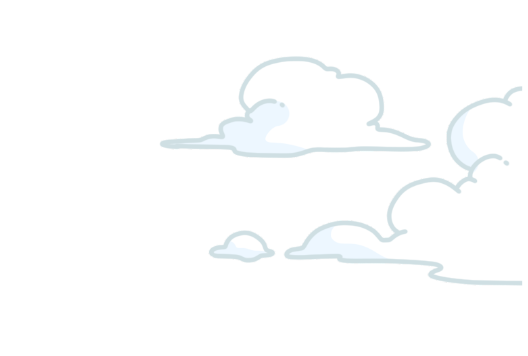
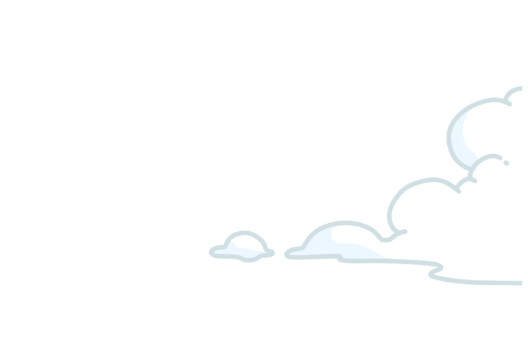
fix: clouds group one

Changed region(s): [[0.303, 0.1545, 0.8182, 0.4635]]

diff --git a/libs/fe-libs/src/lib/home/components/home-page/home-page.tsx b/libs/fe-libs/src/lib/home/components/home-page/home-page.tsx
@@ -1,4 +1,7 @@
 import styles from './home-page.module.scss';
+import { ParallaxProvider } from 'react-scroll-parallax';
+import { useHeroVideo } from '../../hooks/use-hero-video';
+import { useDeviceType } from '../../../shared/hooks/use-device-type';
 import { Landing } from '../landing/landing';
 import { IntroCard } from '../../../cards/components/intro-card/intro-card';
 import { PhaseOne } from '../../../cards/components/phase-one/phase-one';
@@ -6,12 +9,9 @@ import { GrowCard } from '../../../cards/components/grow-card/grow-card';
 import { PhaseTwo } from '../../../cards/components/phase-two/phase-two';
 import { PhaseThree } from '../../../cards/components/phase-three/phase-three';
 import { Roadmap } from '../roadmap/roadmap';
-import { useDeviceType } from '../../../shared/hooks/use-device-type';
 import { Footer } from '../../../core/components/footer/footer';
 import { Cloud } from '../cloud/cloud';
 import { CLOUD_IMAGE_MAPPER } from '../../helpers/cloud-image-mapper';
-import { ParallaxProvider } from 'react-scroll-parallax';
-import { useHeroVideo } from '../../hooks/use-hero-video';
 import classNames from 'classnames';
 
 export function HomePage() {
@@ -21,6 +21,14 @@ export function HomePage() {
     <div className={styles['container']}>
       <div className={styles['app-linear-bg']} />
       <ParallaxProvider>
+        <Cloud
+          imgSrc={CLOUD_IMAGE_MAPPER[0]}
+          topPercentage={isMaxTablet ? 7 : 10}
+          leftPercentage={75}
+          heightPercentage={3.5}
+          widthPercentage={27.5}
+          traslateX={true}
+        />
         <Cloud
           imgSrc={CLOUD_IMAGE_MAPPER[1]}
           topPercentage={isMaxTablet ? 7 : 10}
@@ -42,10 +50,19 @@ export function HomePage() {
           leftPercentage={isMaxTablet ? 80 : 81}
           heightPercentage={3.1}
           widthPercentage={isMaxTablet ? 25 : 22}
+          traslateX={true}
           zIndex={3}
         />
         <Cloud
           imgSrc={CLOUD_IMAGE_MAPPER[4]}
+          topPercentage={isMaxTablet ? 17 : 23}
+          leftPercentage={isMaxTablet ? 80 : 81}
+          heightPercentage={3.1}
+          widthPercentage={isMaxTablet ? 25 : 22}
+          zIndex={3}
+        />
+        <Cloud
+          imgSrc={CLOUD_IMAGE_MAPPER[5]}
           topPercentage={isMaxTablet ? 25.5 : 31.3}
           leftPercentage={isMaxTablet ? 25 : 62}
           heightPercentage={1.3}
@@ -53,7 +70,7 @@ export function HomePage() {
           zIndex={isMaxTablet ? 10 : 3}
         />
         <Cloud
-          imgSrc={CLOUD_IMAGE_MAPPER[5]}
+          imgSrc={CLOUD_IMAGE_MAPPER[6]}
           topPercentage={31}
           leftPercentage={-5}
           heightPercentage={3.9}
@@ -61,7 +78,7 @@ export function HomePage() {
           zIndex={3}
         />
         <Cloud
-          imgSrc={CLOUD_IMAGE_MAPPER[6]}
+          imgSrc={CLOUD_IMAGE_MAPPER[7]}
           topPercentage={33}
           leftPercentage={77}
           heightPercentage={5.1}
@@ -69,7 +86,7 @@ export function HomePage() {
           zIndex={3}
         />
         <Cloud
-          imgSrc={CLOUD_IMAGE_MAPPER[7]}
+          imgSrc={CLOUD_IMAGE_MAPPER[8]}
           topPercentage={isMaxTablet ? 36.5 : 35}
           leftPercentage={-5}
           heightPercentage={4.23}

diff --git a/libs/fe-libs/src/lib/home/components/cloud/cloud.tsx b/libs/fe-libs/src/lib/home/components/cloud/cloud.tsx
@@ -1,4 +1,5 @@
 import styles from './cloud.module.scss';
+import { useState, useEffect } from 'react';
 import { Parallax } from 'react-scroll-parallax';
 
 export interface CloudProps {
@@ -7,6 +8,7 @@ export interface CloudProps {
   heightPercentage: number;
   topPercentage: number;
   leftPercentage: number;
+  traslateX?: boolean;
   zIndex?: number;
 }
 
@@ -17,15 +19,37 @@ export function Cloud(props: CloudProps) {
     leftPercentage,
     widthPercentage,
     heightPercentage,
+    traslateX = false,
     zIndex = 20,
   } = props;
+
+  const [leftPosition, setLeftPosition] = useState(leftPercentage);
+
+  useEffect(() => {
+    const handleScroll = () => {
+      const scrollPosition = window.scrollY;
+      const parallaxSpeed = 0.05;
+      const newLeftPosition = leftPercentage - scrollPosition * parallaxSpeed;
+
+      if (newLeftPosition >= 0) {
+        setLeftPosition(newLeftPosition);
+      }
+    };
+
+    window.addEventListener('scroll', handleScroll);
+
+    return () => {
+      window.removeEventListener('scroll', handleScroll);
+    };
+  }, [leftPercentage]);
+
   return (
     <Parallax
       speed={-10}
       className={styles['parallax']}
       style={{
         top: `${topPercentage}%`,
-        left: `${leftPercentage}%`,
+        left: traslateX ? `${leftPosition}%` : `${leftPercentage}%`,
         width: `${widthPercentage}%`,
         height: `${heightPercentage}%`,
         zIndex,

diff --git a/libs/fe-libs/src/lib/home/helpers/cloud-image-mapper.ts b/libs/fe-libs/src/lib/home/helpers/cloud-image-mapper.ts
@@ -1,3 +1,4 @@
+import Cloud0 from '../../../../assets/pngs/cloud_0.png';
 import Cloud1 from '../../../../assets/pngs/cloud_1.png';
 import Cloud2 from '../../../../assets/pngs/cloud_2.png';
 import Cloud3 from '../../../../assets/pngs/cloud_3.png';
@@ -5,8 +6,10 @@ import Cloud4 from '../../../../assets/pngs/cloud_4.png';
 import Cloud5 from '../../../../assets/pngs/cloud_5.png';
 import Cloud6 from '../../../../assets/pngs/cloud_6.png';
 import Cloud7 from '../../../../assets/pngs/cloud_7.png';
+import Cloud8 from '../../../../assets/pngs/cloud_8.png';
 
 export const CLOUD_IMAGE_MAPPER: Record<number, string> = {
+  0: Cloud0,
   1: Cloud1,
   2: Cloud2,
   3: Cloud3,
@@ -14,4 +17,5 @@ export const CLOUD_IMAGE_MAPPER: Record<number, string> = {
   5: Cloud5,
   6: Cloud6,
   7: Cloud7,
+  8: Cloud8,
 };

diff --git a/libs/fe-libs/src/lib/tokens/components/filters/filters.tsx b/libs/fe-libs/src/lib/tokens/components/filters/filters.tsx
@@ -13,8 +13,6 @@ import {
   TOKEN_RARITY_COLOR,
 } from '../../helpers/token-color-mapper';
 import classNames from 'classnames';
-import { useDeviceType } from '../../../shared/hooks/use-device-type';
-import { useEffect } from 'react';
 
 export function Filters() {
   const { t } = useTranslation();
@@ -26,11 +24,6 @@ export function Filters() {
     toggleRarityFilter,
     setAdulthoodFilter,
   } = useTokensFacade();
-  const { isMinDesktopSmall } = useDeviceType();
-
-  // useEffect(() => {
-  //   setAdulthoodFilter(isMinDesktopSmall ? TokenAdulthoodType.Adult : null);
-  // }, [isMinDesktopSmall]);
 
   return (
     <div className={styles['container']}>
